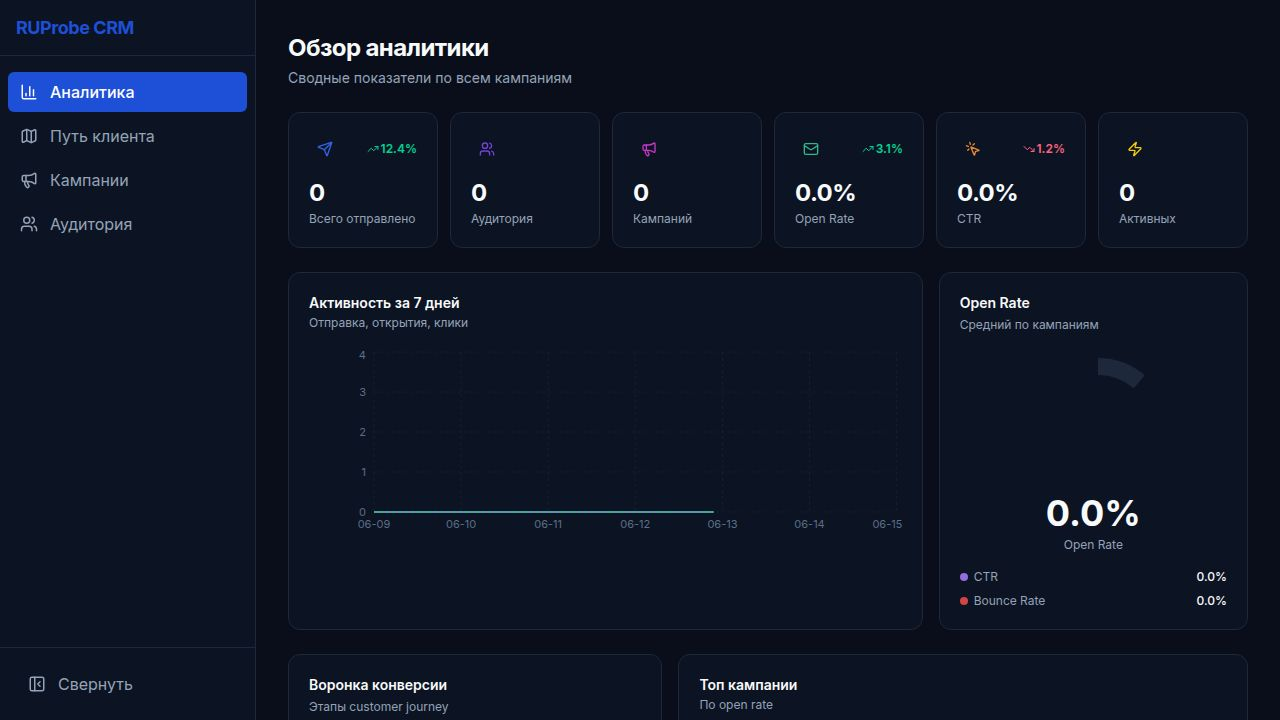
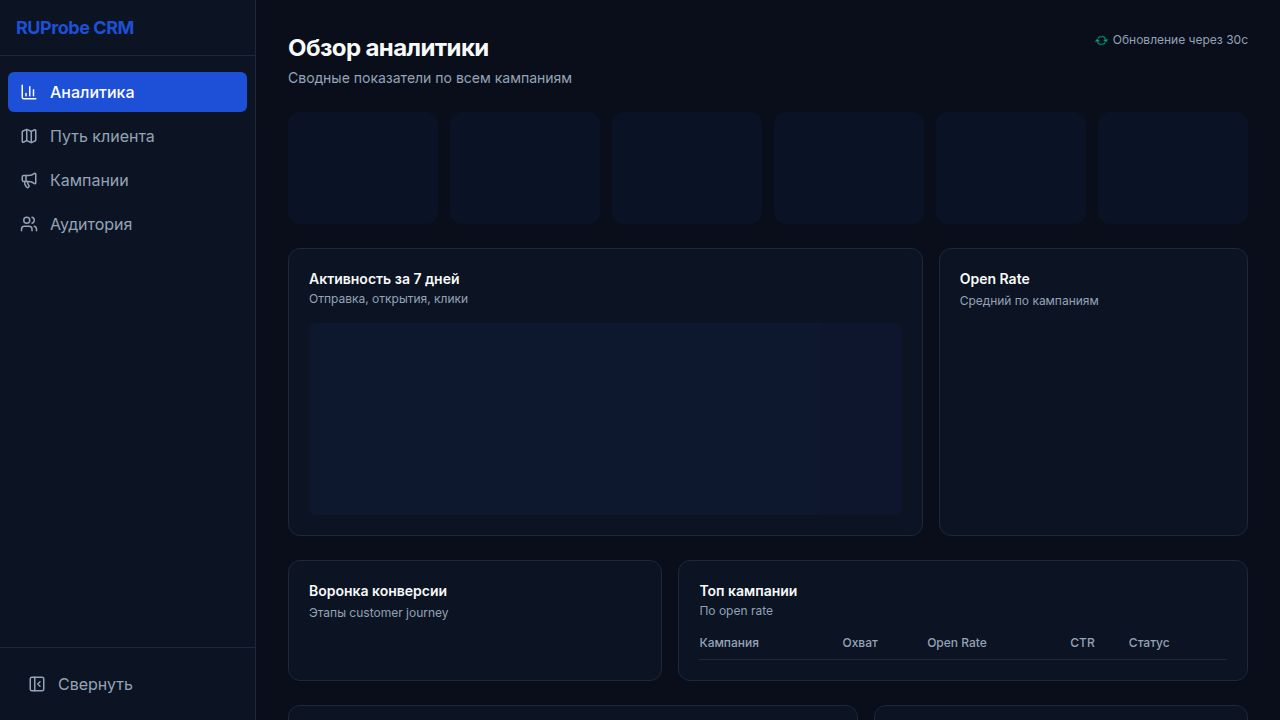
Improve build process by using pnpm exec for vite commands
Update package.json scripts to use `pnpm exec vite` and provide default PORT and BASE_PATH values in Vite configurations for both crm-platform and mockup-sandbox.

Replit-Commit-Author: Agent
Replit-Commit-Session-Id: 479b2257-c09d-4ff3-8cda-d4832a41c8c6
Replit-Commit-Checkpoint-Type: full_checkpoint
Replit-Commit-Event-Id: 6225ceef-38f1-43dc-b860-e715307492a4
Replit-Commit-Screenshot-Url: https://storage.googleapis.com/screenshot-production-us-central1/76d51938-295f-4097-a446-f9fee844f6f8/479b2257-c09d-4ff3-8cda-d4832a41c8c6/FTOFIRy
Replit-Helium-Checkpoint-Created: true

diff --git a/artifacts/crm-platform/vite.config.ts b/artifacts/crm-platform/vite.config.ts
@@ -4,27 +4,14 @@ import tailwindcss from "@tailwindcss/vite";
 import path from "path";
 import runtimeErrorOverlay from "@replit/vite-plugin-runtime-error-modal";
 
-const rawPort = process.env.PORT;
-
-if (!rawPort) {
-  throw new Error(
-    "PORT environment variable is required but was not provided.",
-  );
-}
-
+const rawPort = process.env.PORT ?? "8081";
 const port = Number(rawPort);
 
 if (Number.isNaN(port) || port <= 0) {
   throw new Error(`Invalid PORT value: "${rawPort}"`);
 }
 
-const basePath = process.env.BASE_PATH;
-
-if (!basePath) {
-  throw new Error(
-    "BASE_PATH environment variable is required but was not provided.",
-  );
-}
+const basePath = process.env.BASE_PATH ?? "/crm-platform/";
 
 export default defineConfig({
   base: basePath,

diff --git a/artifacts/mockup-sandbox/vite.config.ts b/artifacts/mockup-sandbox/vite.config.ts
@@ -5,27 +5,14 @@ import path from "path";
 import runtimeErrorOverlay from "@replit/vite-plugin-runtime-error-modal";
 import { mockupPreviewPlugin } from "./mockupPreviewPlugin";
 
-const rawPort = process.env.PORT;
-
-if (!rawPort) {
-  throw new Error(
-    "PORT environment variable is required but was not provided.",
-  );
-}
-
+const rawPort = process.env.PORT ?? "23873";
 const port = Number(rawPort);
 
 if (Number.isNaN(port) || port <= 0) {
   throw new Error(`Invalid PORT value: "${rawPort}"`);
 }
 
-const basePath = process.env.BASE_PATH;
-
-if (!basePath) {
-  throw new Error(
-    "BASE_PATH environment variable is required but was not provided.",
-  );
-}
+const basePath = process.env.BASE_PATH ?? "/__mockup/";
 
 export default defineConfig({
   base: basePath,

diff --git a/artifacts/mockup-sandbox/src/.generated/mockup-components.ts b/artifacts/mockup-sandbox/src/.generated/mockup-components.ts
@@ -1,11 +1,11 @@
 // This file is auto-generated by mockupPreviewPlugin.ts.
 type ModuleMap = Record<string, () => Promise<Record<string, unknown>>>;
 export const modules: ModuleMap = {
-  "./components/mockups/crm/AnalyticsDashboard.tsx": () => import("../components/mockups/crm/AnalyticsDashboard.tsx"),
-  "./components/mockups/crm/CampaignManager.tsx": () => import("../components/mockups/crm/CampaignManager.tsx"),
-  "./components/mockups/crm/CustomerJourney.tsx": () => import("../components/mockups/crm/CustomerJourney.tsx"),
   "./components/mockups/telegram-miniapp/Audience.tsx": () => import("../components/mockups/telegram-miniapp/Audience.tsx"),
   "./components/mockups/telegram-miniapp/Campaigns.tsx": () => import("../components/mockups/telegram-miniapp/Campaigns.tsx"),
   "./components/mockups/telegram-miniapp/Dashboard.tsx": () => import("../components/mockups/telegram-miniapp/Dashboard.tsx"),
-  "./components/mockups/telegram-miniapp/Journey.tsx": () => import("../components/mockups/telegram-miniapp/Journey.tsx")
+  "./components/mockups/telegram-miniapp/Journey.tsx": () => import("../components/mockups/telegram-miniapp/Journey.tsx"),
+  "./components/mockups/crm/AnalyticsDashboard.tsx": () => import("../components/mockups/crm/AnalyticsDashboard.tsx"),
+  "./components/mockups/crm/CampaignManager.tsx": () => import("../components/mockups/crm/CampaignManager.tsx"),
+  "./components/mockups/crm/CustomerJourney.tsx": () => import("../components/mockups/crm/CustomerJourney.tsx")
 };